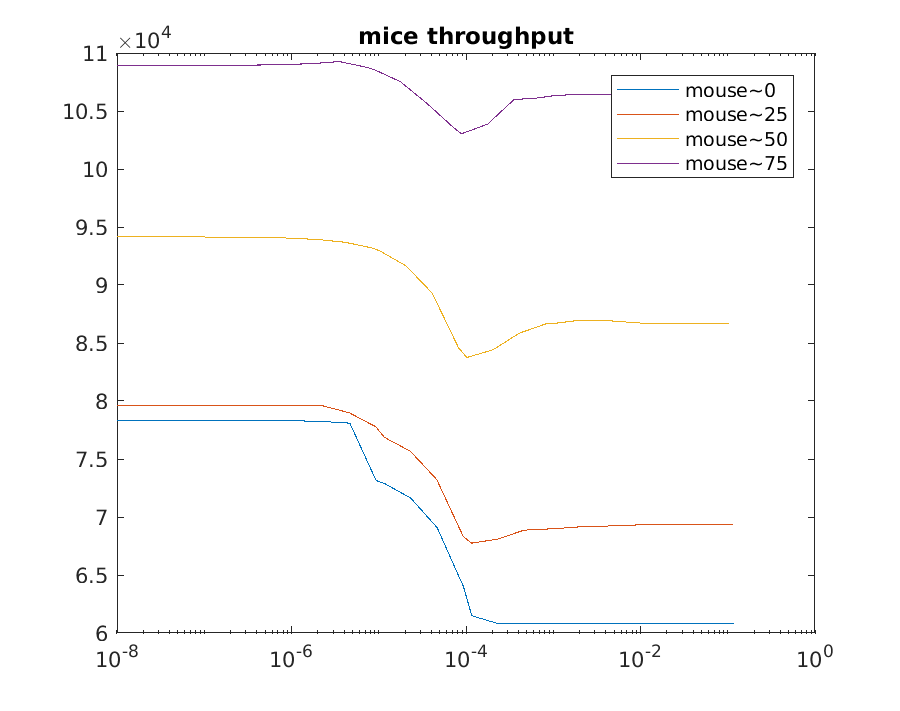
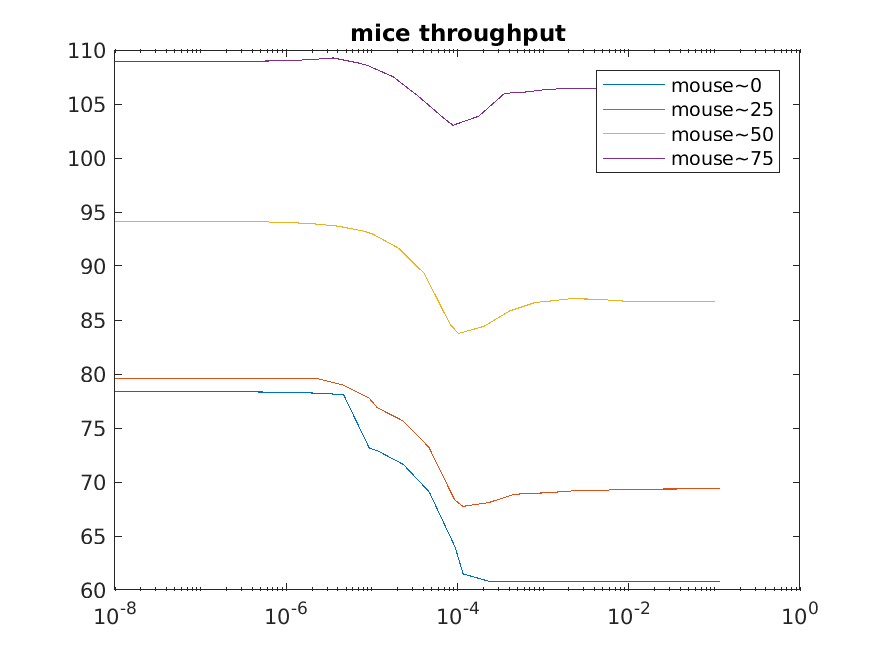
Plot A2-fix-mean-pareto on sharelatex

diff --git a/revision/revision_4/figures-fix-mean/A2_compare_2.m b/revision/revision_4/figures-fix-mean/A2_compare_2.m
@@ -56,7 +56,12 @@ x5 = x5([1, 2, 7, 11:22], :);
 x5 = interp1(x5(:, 1), x5(:, 2:5), beta5, 'linear');
 x5 = [beta5, x5];
 
-
+%%
+x1(:, [3, 5]) = x1(:, [3, 5]) / 1000;
+x2(:, [3, 5]) = x2(:, [3, 5]) / 1000;
+x3(:, [3, 5]) = x3(:, [3, 5]) / 1000;
+x4(:, [3, 5]) = x4(:, [3, 5]) / 1000;
+x5(:, [3, 5]) = x5(:, [3, 5]) / 1000;
 
 %%
 x1Connection = x1(:, 2) + x1(:, 4);
@@ -86,31 +91,31 @@ csvwrite('A2-fix-mean-pareto.csv', ...
     x3Connection, x3Throughput, x4Connection, x4Throughput])
 
 %% Plot mice classes
-a1 = csvread('../A2_mice_50_0_elep_400_0_L1_0.05_L2_0.35/90_10/trafficMatrix/traffic_matrix_0.csv');
+a1 = csvread('../results-fix-mean/A2_mice_50_0_elep_400_0_L1_0.05_L2_0.35/90_10/trafficMatrix/traffic_matrix_0.csv');
 a1 = a1(:);
 a1(a1==0) = [];
 numberMice1 = sum(a1<200);
 numberElephant1 = sum(a1>200);
 
-a2 = csvread('../A2_mice_50_25_elep_400_25_L1_0.05_L2_0.35/90_10/trafficMatrix/traffic_matrix_0.csv');
+a2 = csvread('../results-fix-mean/A2_mice_50_25_elep_400_25_L1_0.05_L2_0.35/90_10/trafficMatrix/traffic_matrix_0.csv');
 a2 = a2(:);
 a2(a2==0) = [];
 numberMice2 = sum(a2<200);
 numberElephant2 = sum(a2>200);
 
-a3 = csvread('../A2_mice_50_50_elep_400_50_L1_0.05_L2_0.35/90_10/trafficMatrix/traffic_matrix_0.csv');
+a3 = csvread('../results-fix-mean/A2_mice_50_50_elep_400_50_L1_0.05_L2_0.35/90_10/trafficMatrix/traffic_matrix_0.csv');
 a3 = a3(:);
 a3(a3==0) = [];
 numberMice3 = sum(a3<200);
 numberElephant3 = sum(a3>200);
 
-a4 = csvread('../A2_mice_50_75_elep_400_75_L1_0.05_L2_0.35/90_10/trafficMatrix/traffic_matrix_0.csv');
+a4 = csvread('../results-fix-mean/A2_mice_50_75_elep_400_75_L1_0.05_L2_0.35/90_10/trafficMatrix/traffic_matrix_0.csv');
 a4 = a4(:);
 a4(a4==0) = [];
 numberMice4 = sum(a4<200);
 numberElephant4 = sum(a4>200);
 
-a5 = csvread('../A2_mice_50_75_elep_400_75_L1_0.05_L2_0.35/90_10/trafficMatrix/traffic_matrix_0.csv');
+a5 = csvread('../results-fix-mean/A2_mice_50_75_elep_400_75_L1_0.05_L2_0.35/90_10/trafficMatrix/traffic_matrix_0.csv');
 a5 = a5(:);
 a5(a5==0) = [];
 numberMice5 = sum(a5<200);
